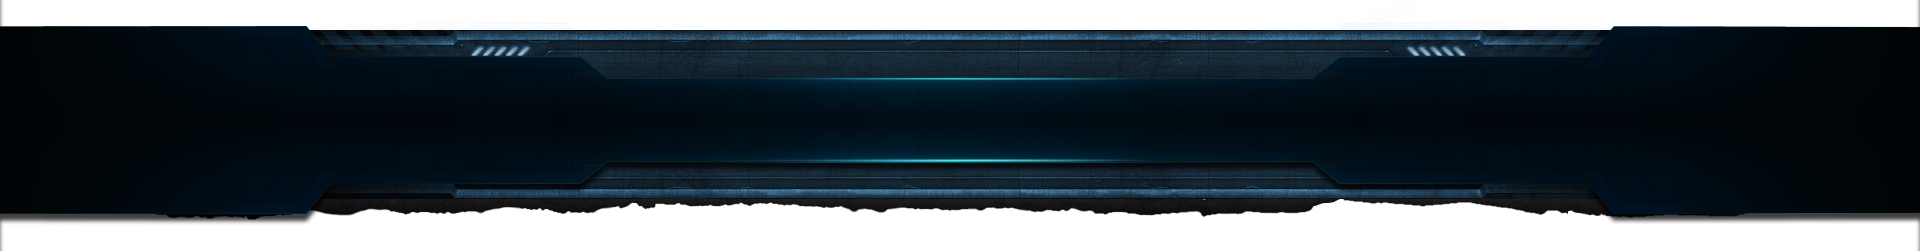
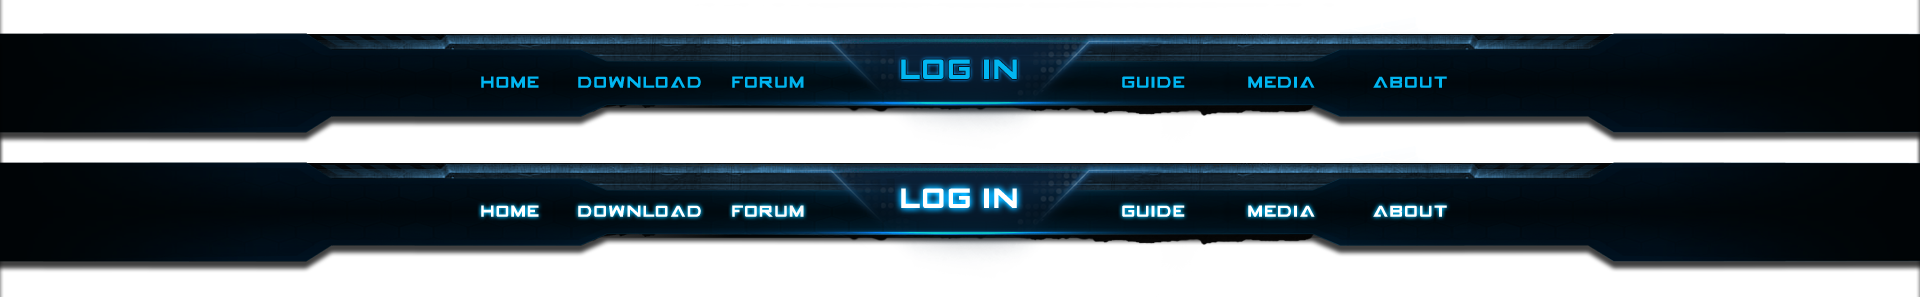
change top menu

diff --git a/html/css/style.css b/html/css/style.css
@@ -39,20 +39,20 @@ body {
 .navigation {
     position: absolute;
     width: 100%;
-    height: 220px;
+    height: 145px;
     z-index: 100;
-    top: 619px;
+    top: 617px;
     background: transparent url(../img/menu/menu.png) no-repeat scroll center top;
 }
 .navigation.is-fixed {
 position: fixed;
-top: -30px;
+top: -35px;
 z-index: 1000;
 }
 
 .navigation .bar {
     width: 1030px;
-    height:220px;
+    height: 145px;
     margin: 0 auto;
     line-height:251px;
 
@@ -64,9 +64,33 @@ z-index: 1000;
     font-family: tahoma;
     font-size:23px;
     width:168px;
+    height:100px;
     display:inline-block;
     text-align:center;
 }
+
+.navigation .bar a.home {
+    width:117px;
+}
+.navigation .bar a.download {
+    width:141px;
+}
+.navigation .bar a.forum {
+    width:100px;
+}
+.navigation .bar a.login {
+    width:275px;
+}
+.navigation .bar a.guide {
+    width:118px;
+}
+.navigation .bar a.media {
+    width:129px;
+}
+.navigation .bar a.about {
+    width:115px;
+}
+
 
 .navigation .bar a:hover {
     color:white;

diff --git a/html/index.html b/html/index.html
@@ -43,12 +43,13 @@
     <div class="navigation">
 
         <div class="bar">
-            <a href="">Home</a>
-            <a href="">Forum</a>
-            <a href="">Download</a>
-            <a href="">Guide</a>
-            <a href="">Media</a>
-            <a href="">About</a>
+            <a class="home" href=""></a>
+            <a class="download" href=""></a>
+            <a class="forum" href=""></a>
+            <a class="login" href=""></a>
+            <a class="guide" href=""></a>
+            <a class="media" href=""></a>
+            <a class="about" href=""></a>
         </div>
 
     </div>

diff --git a/html/js/main.js b/html/js/main.js
@@ -16,7 +16,7 @@ $(function () {
         nav.toggleClass('is-fixed');
     }
 
-    $("#task_bar").jScroll({top: 200});
+    $("#task_bar").jScroll({top: 150});
 });
 
 
